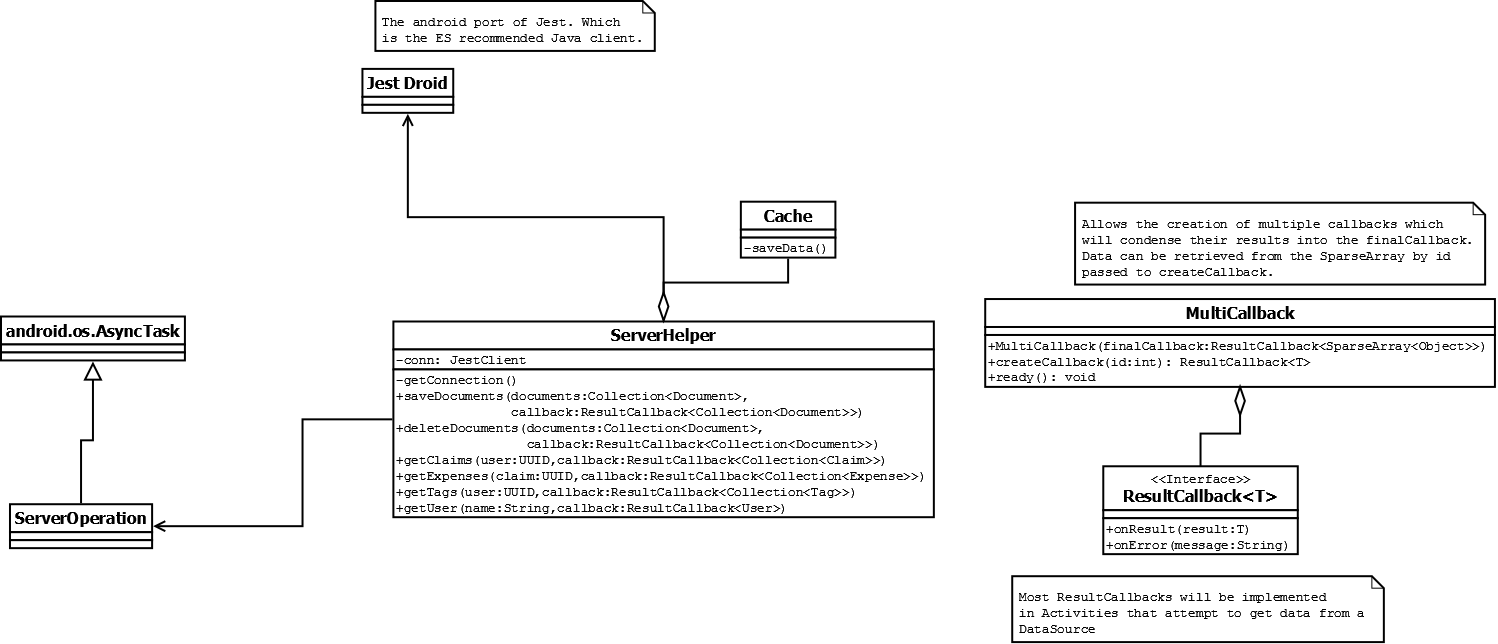
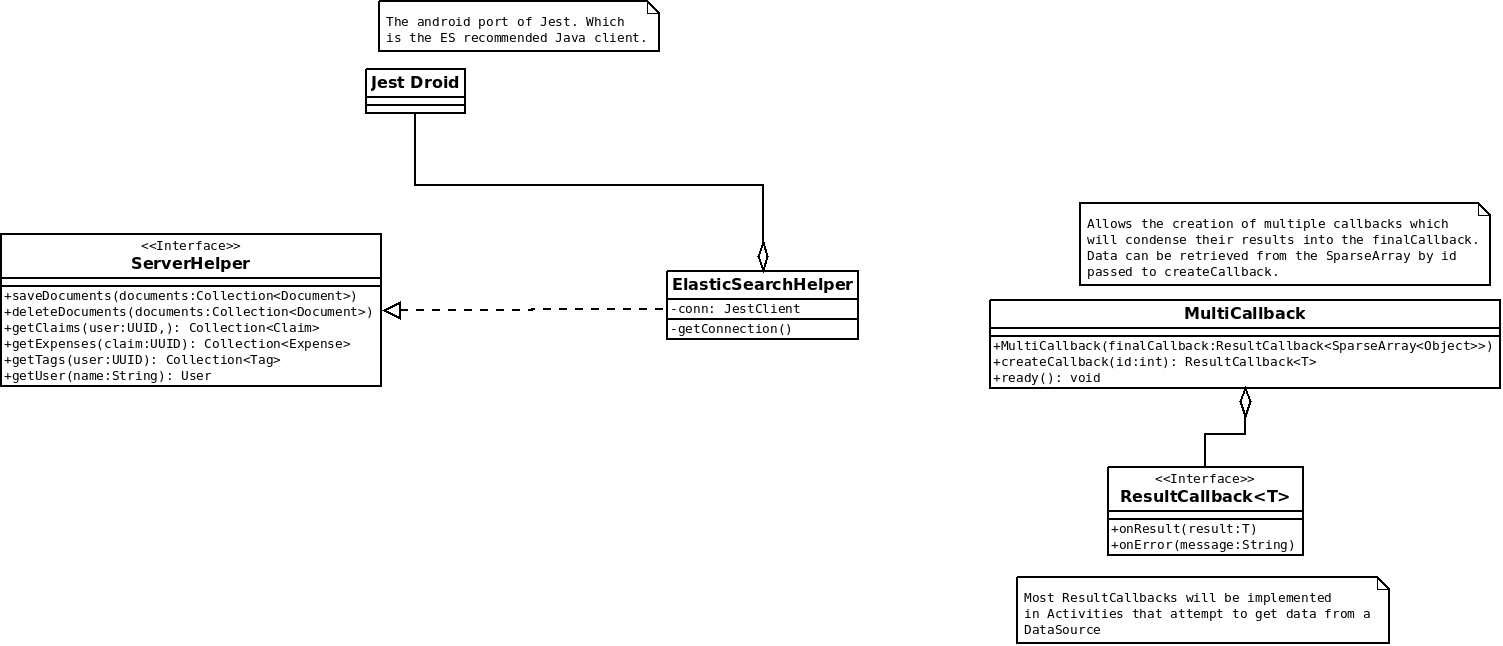
Initial setup complete - UML updated - ServerHelper Interface created - ElasticSearchHelper class created

diff --git a/src/cmput301w15t07/TravelTracker/serverinterface/ServerHelper.java b/src/cmput301w15t07/TravelTracker/serverinterface/ServerHelper.java
@@ -29,82 +29,56 @@ import cmput301w15t07.TravelTracker.model.Document;
 import cmput301w15t07.TravelTracker.model.Item;
 import cmput301w15t07.TravelTracker.model.Tag;
 import cmput301w15t07.TravelTracker.model.User;
-import io.searchbox.client.*;
 
 /**
  * Contains helper functions for server operations.
  * 
  * @author ryant26
  */
-public class ServerHelper {
-	private JestClient conn;
-	private Cache cache;
-	
-	/**
-	 * Performs all the connection setup for this class to 
-	 * connect to the ES cluster.
-	 */
-	private void getConnection(){
-		
-	}
+public interface ServerHelper {
 	
 	/**
 	 * This method deletes all passed documents from the ES cluster.
 	 * When finished or on error will use the callback. 
 	 * @param documents
-	 * @param callback
 	 */
-	public void deleteDocuments(Collection<Document> documents, ResultCallback<Collection<Document>> callback){
-		
-	}
+	public void deleteDocuments(Collection<Document> documents);
 	
 	/**
 	 * Gets all claims for the passed user from the server asynchronously, returns it via 
 	 * ResultCallback
 	 * @param user
-	 * @param callback
+	 * @return collection of claims
 	 */
-	public void getClaims(UUID user, ResultCallback<Collection<Claim>> callback){
-		
-	}
+	public Collection<Claim> getClaims(UUID user);
 	
 	/**
 	 * Gets all expense items for the passed claim from the server asynchronously, returns it
 	 * via ResultCallback
 	 * @param claim
-	 * @param callback
+	 * @return collection of expense Items
 	 */
-	public void getExpenses(UUID claim, ResultCallback<Collection<Item>> callback){
-		
-	}
-	
+	public Collection<Item> getExpenses(UUID claim);
 	/**
 	 * Gets all tags for the passed user from the server asynchronously, returns it
 	 * via ResultCallback
 	 * @param user
-	 * @param callback
+	 * @return collection of Tags
 	 */
-	public void getTags(UUID user, ResultCallback<Collection<Tag>> callback){
-		
-	}
+	public Collection<Tag> getTags(UUID user);
 	
 	/**
 	 * Gets gets user for passed name from the server asynchronously, returns it
 	 * via ResultCallback
 	 * @param name
-	 * @param callback
+	 * @return user
 	 */
-	public void getUser(String name, ResultCallback<User> callback){
-		
-	}
+	public User getUser(String name);
 	
 	/**
 	 * Saves passed documents to the server asynchronously, returns the documents that
 	 * were successfully saved via callback 
 	 * @param documents
-	 * @param callback
 	 */
-	public void saveDocuments(Collection<Document> documents, ResultCallback<Collection<Document>> callback){
-		
-	}
+	public void saveDocuments(Collection<Document> documents);
 }
